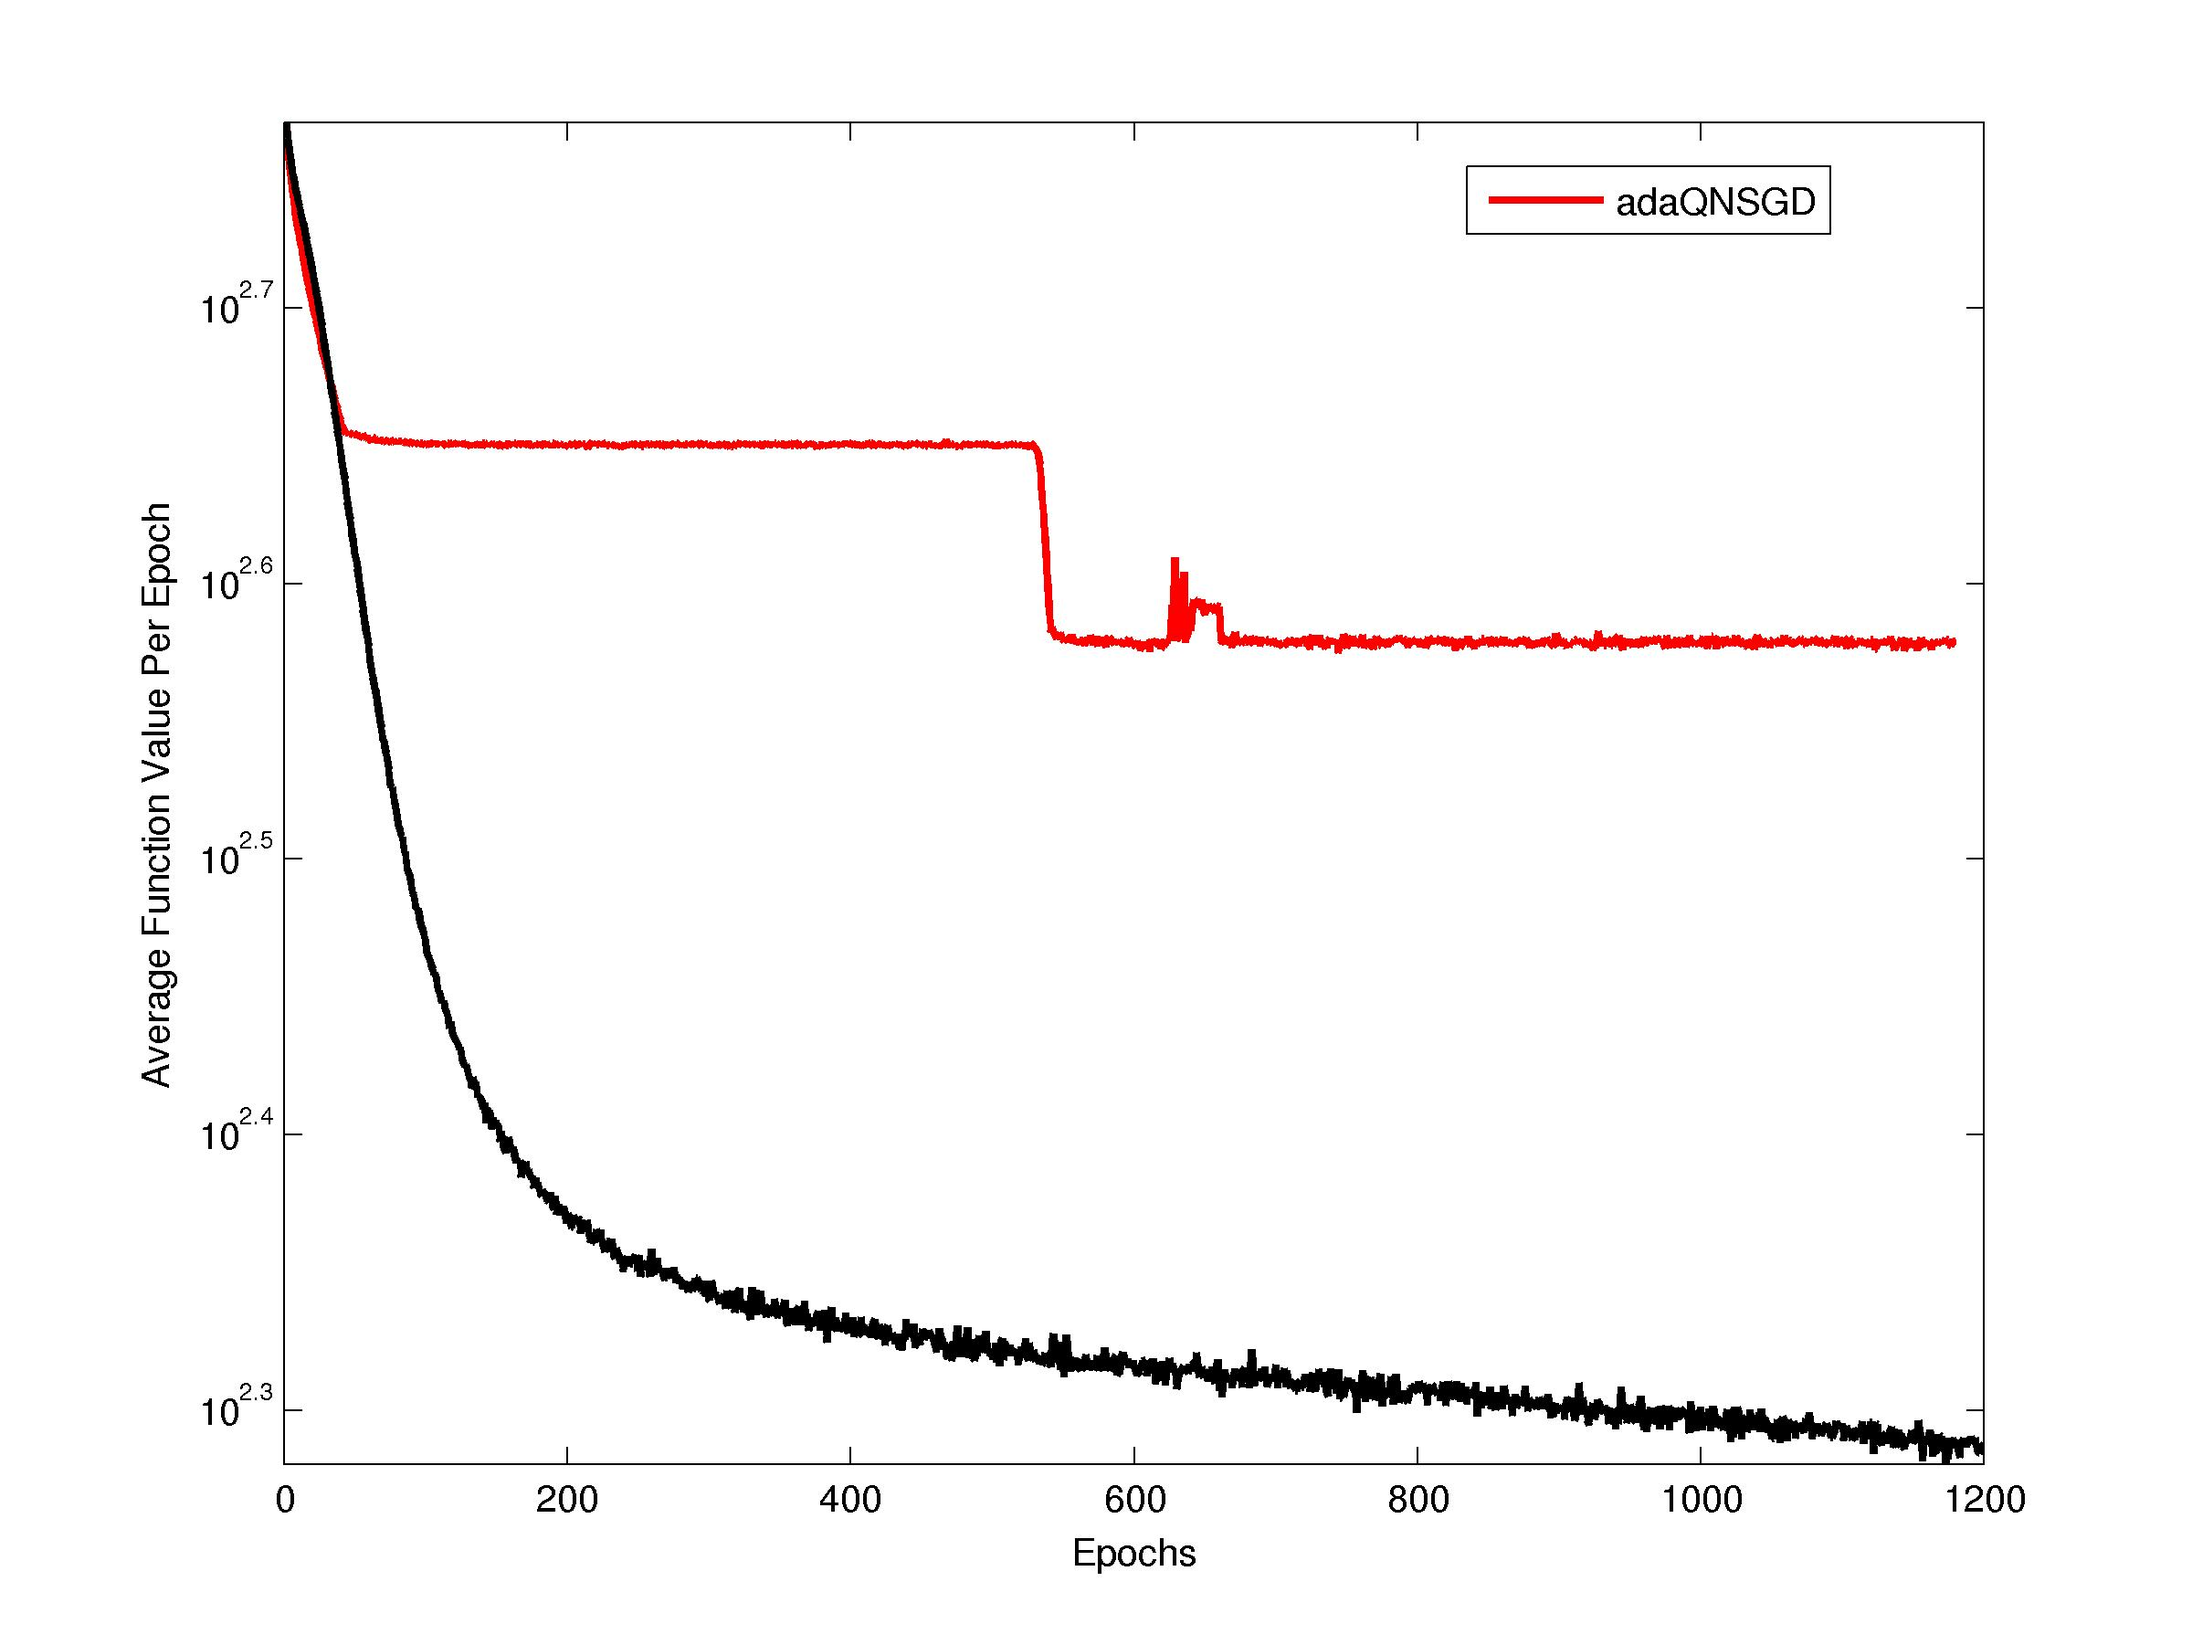
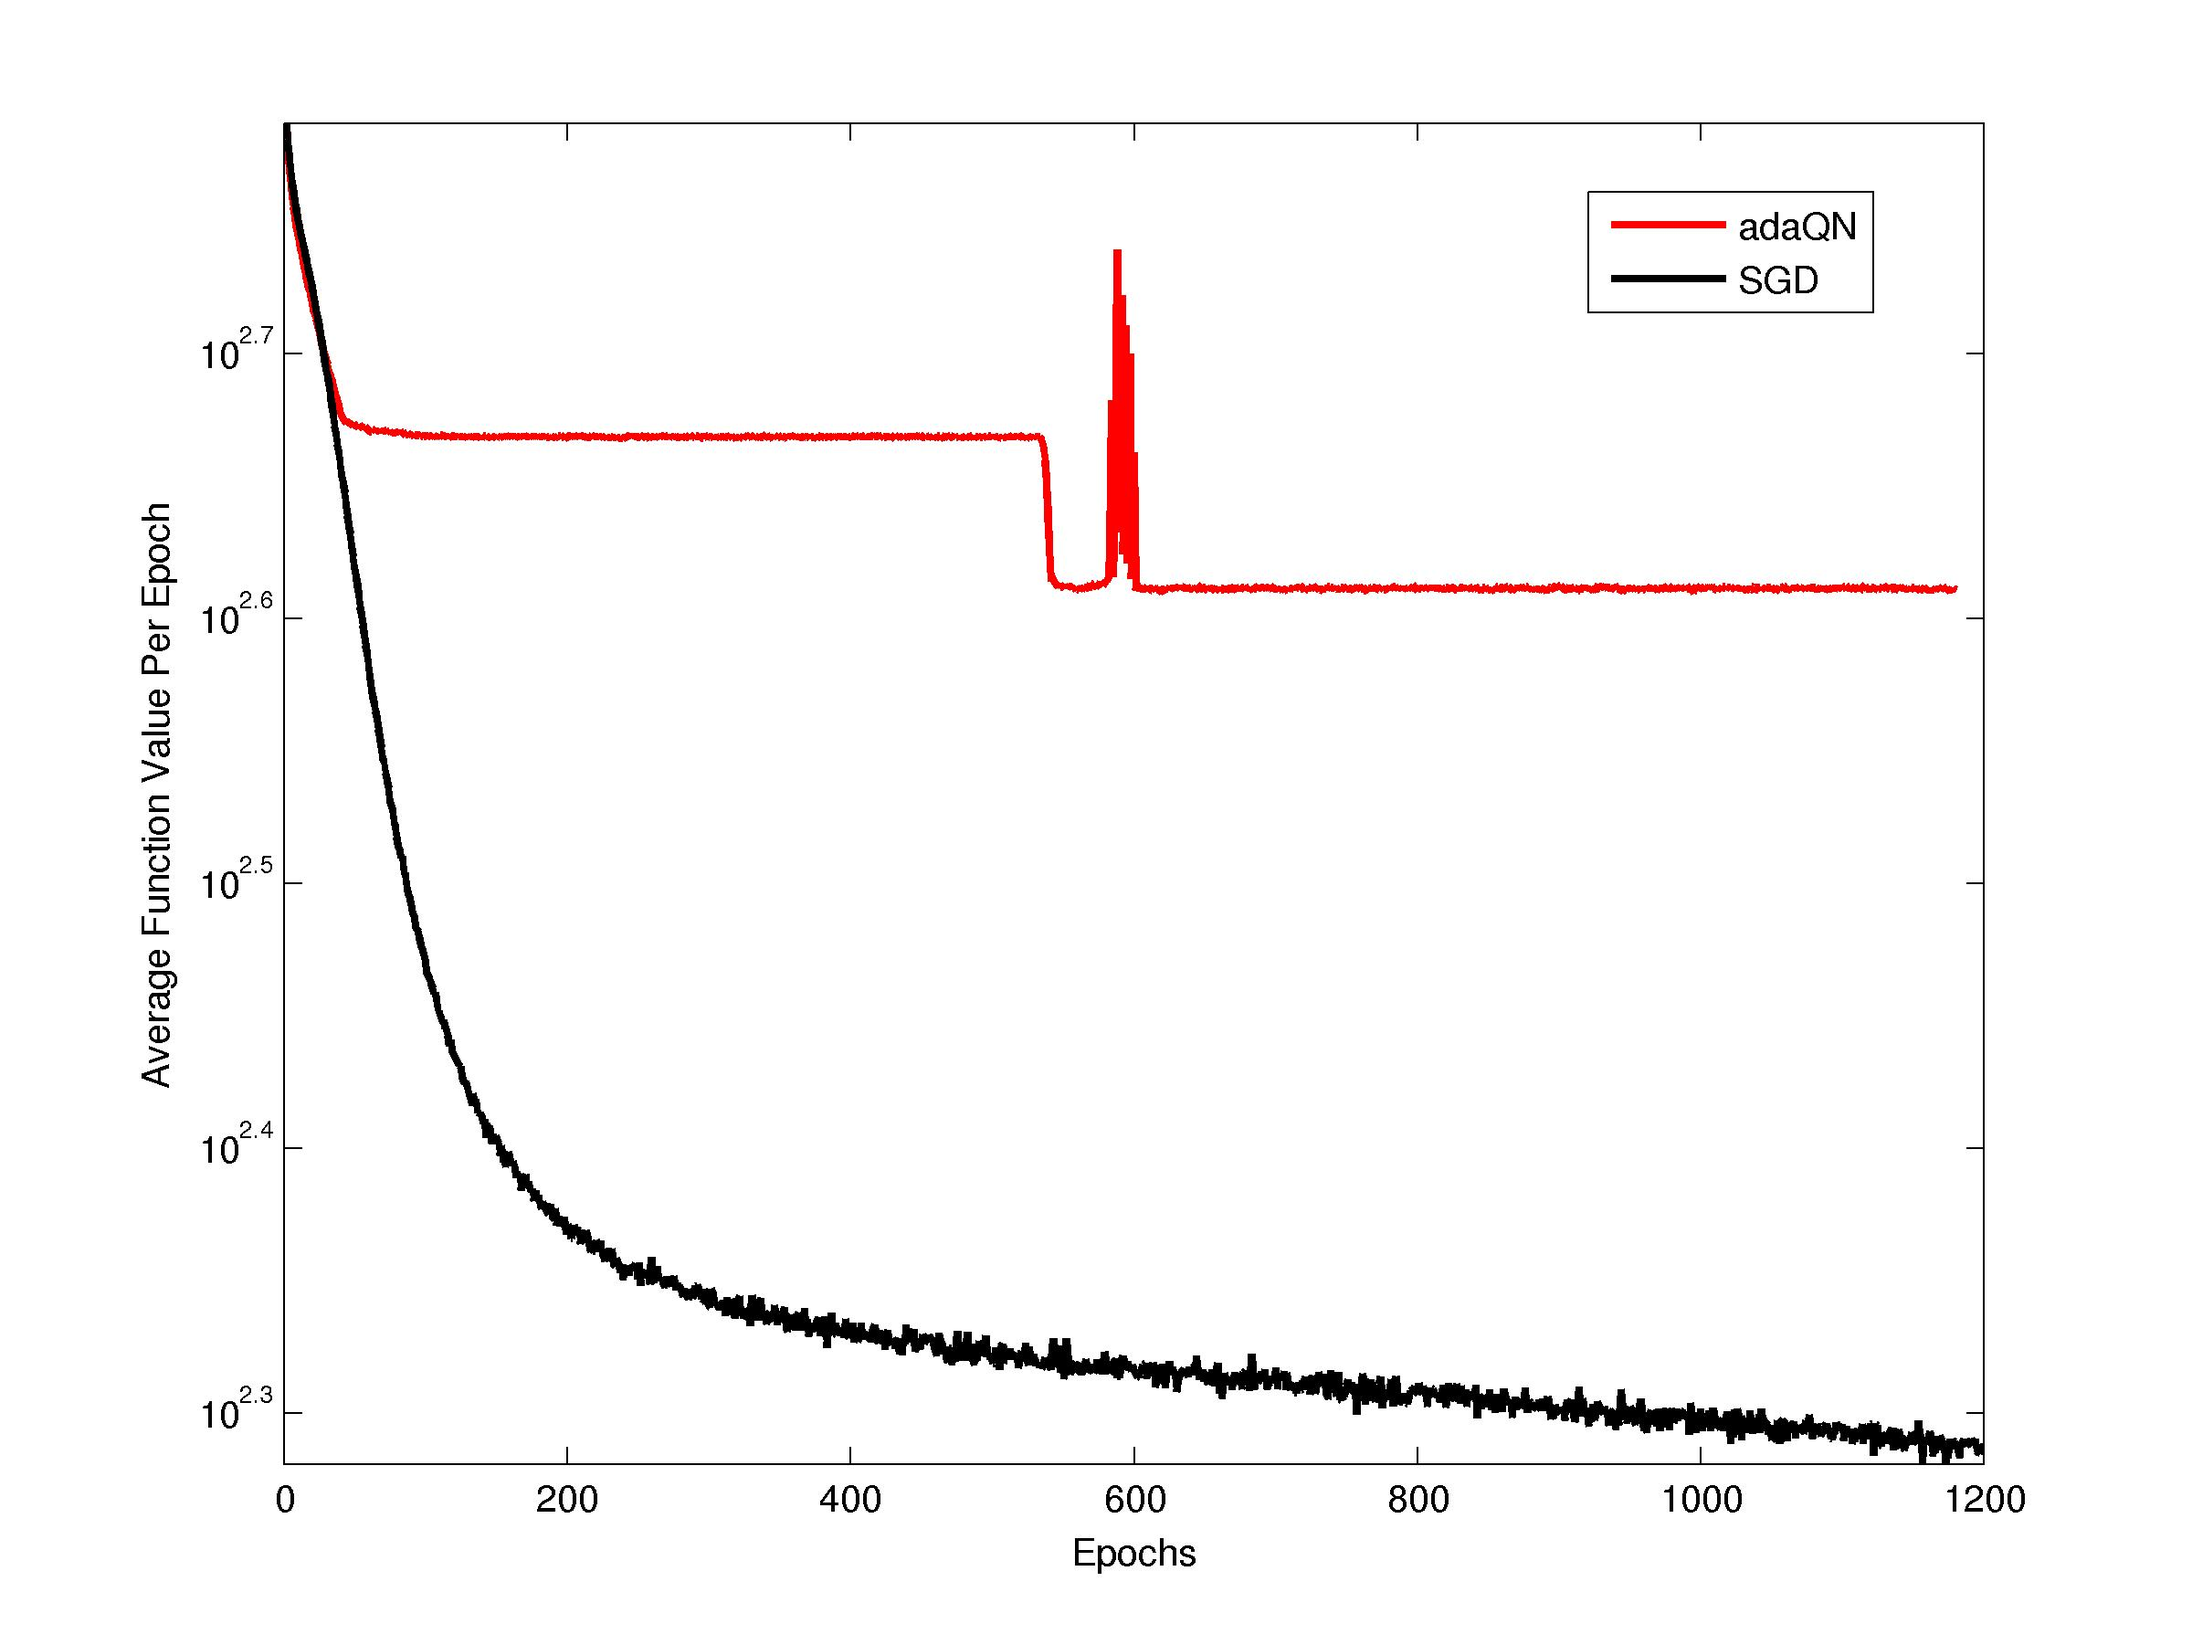
Image

diff --git a/mnist.m b/mnist.m
@@ -10,7 +10,7 @@ problem.w0 = net.w;
 %% Standard algorithm run
 f0 = problem.funObj(problem.w0);
 methods{1}.name = 'adaQN';
-methods{1}.arg1 = 1e-6;
+methods{1}.arg1 = 1e-4;
 methods{1}.arg2 = 20;
 methods{1}.color = 'r';
 methods{2}.name = 'SGD';
